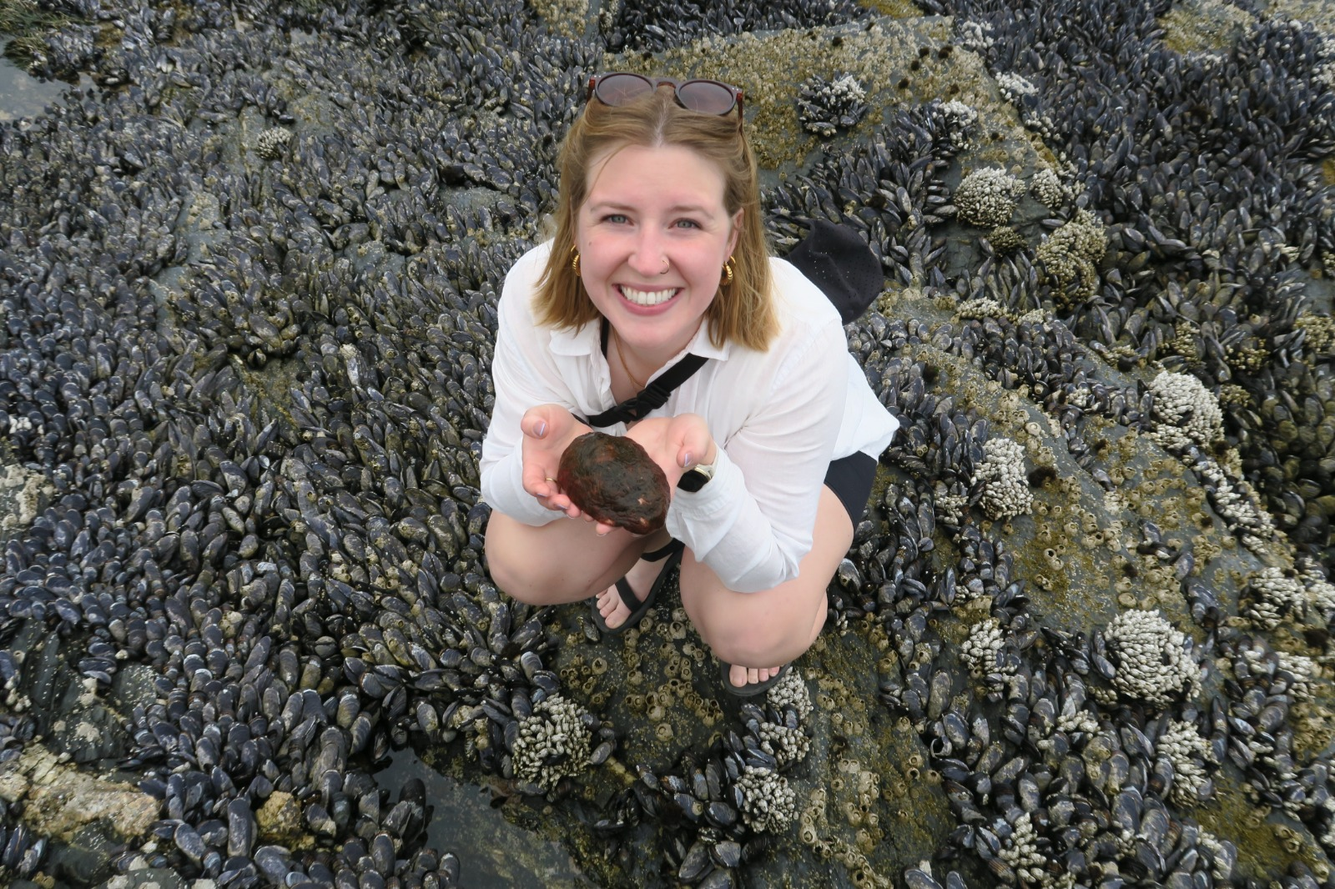
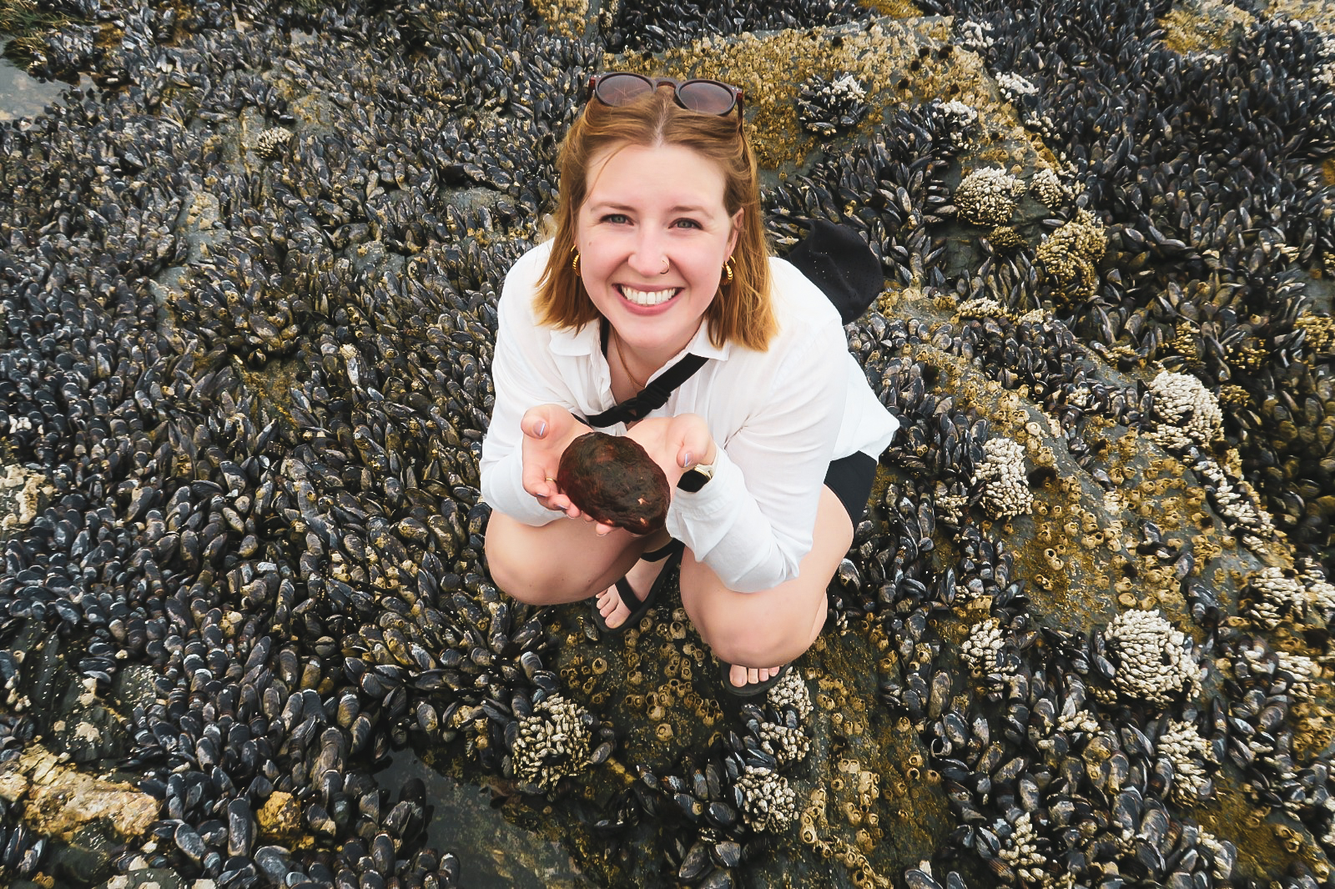
main photo and header

diff --git a/index.html b/index.html
@@ -23,7 +23,8 @@
 							<header>
 								<h1><a href="index.html" id="logo">Megan A Davies</a></h1>
 								<hr />
-								<p>MSc Student UVic,   BSc UVic</p>
+								<p style="font-size: 1.3em; color: white; font-weight: bold;">Research Manager, Bates Lab   |    MSc, BSc UVic</p>
+
 							</header>
 							
 						</div>
